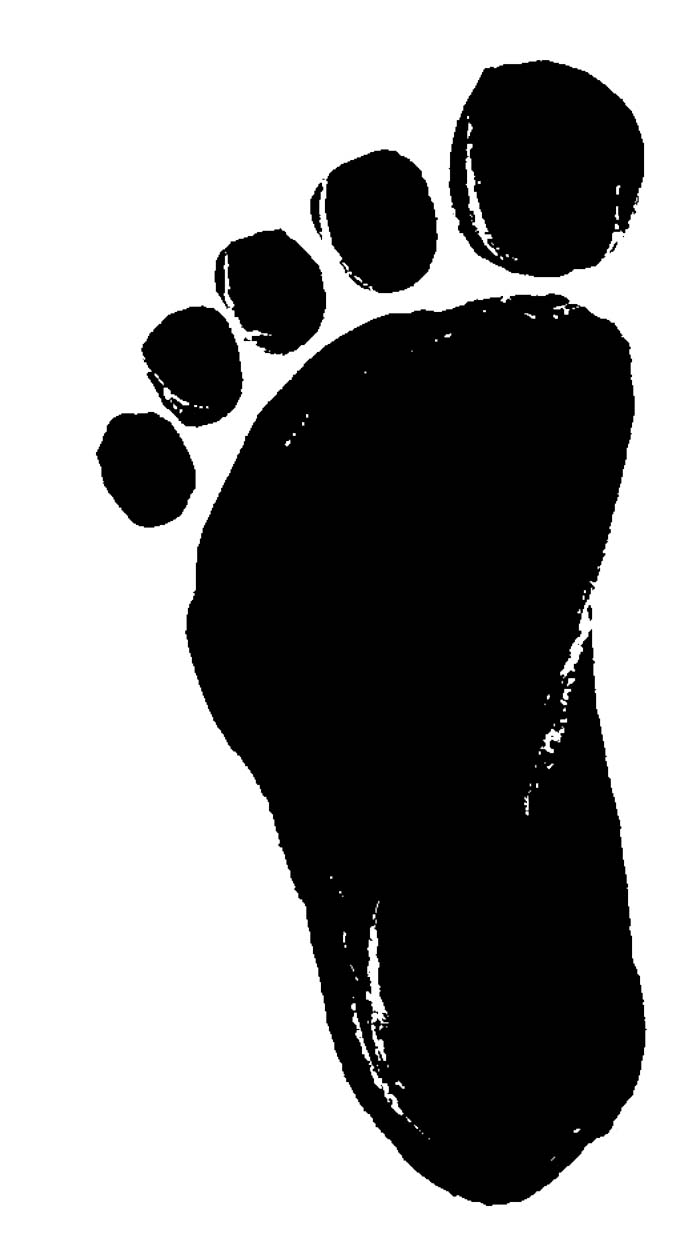
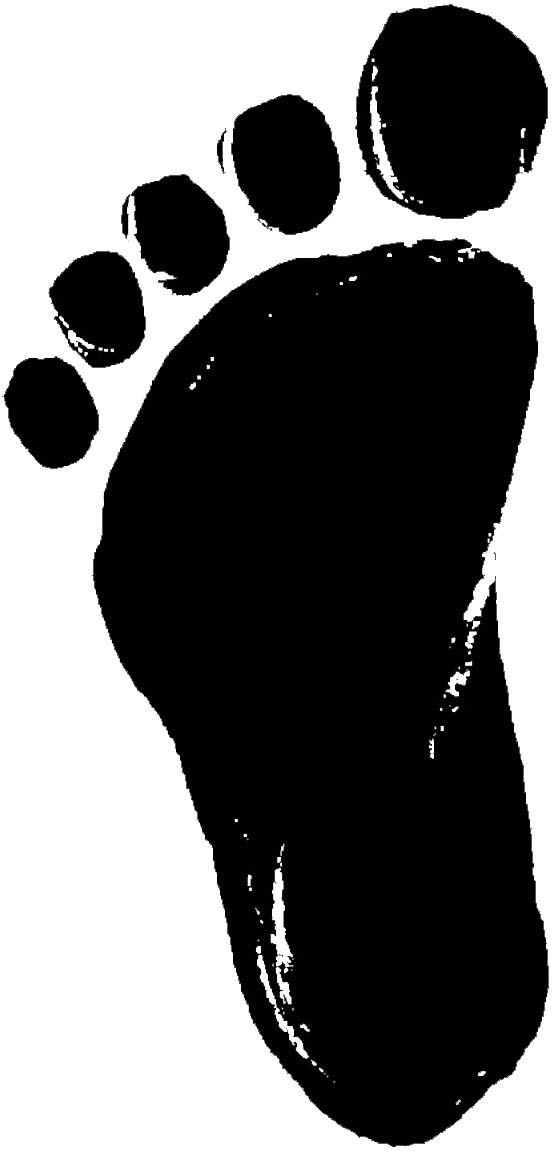
minor changes

Changed region(s): [[0.0, 0.0, 1.0, 0.9991]]

diff --git a/client/src/pages/Contact/Contact.js b/client/src/pages/Contact/Contact.js
@@ -3,6 +3,7 @@ import React, { Component } from "react";
 import {Container} from "../../components/Grid";
 import API from "../../utils/API";
 import "./Contact.css";
+import "./formAction.PHP";
 
 class Contact extends Component {
 	state = {
@@ -23,7 +24,7 @@ class Contact extends Component {
 						<form className="well form-horizontal" action=" " method="post"  id="contact_form">
 							<fieldset>
 								 {/*Form Name*/}
-								<legend>Contact Us Today!</legend>
+								<legend>Contact Us  Today!</legend>
 
 								{/*Text input*/}
 								<div className="form-group">
@@ -49,124 +50,6 @@ class Contact extends Component {
 
 								{/*Text input*/}
 								<div className="form-group">
-									<label className="col-md-4 control-label">E-Mail</label>
-									<div className="col-md-4 inputGroupContainer">
-										<div className="input-group">
-											<span className="input-group-addon"><i className="glyphicon glyphicon-envelope"> </i></span>
-											<input name="email" placeholder="E-Mail Address" className="form-control"  type="text" />
-										</div>
-									</div>
-								</div>
-
-								{/*Text input*/}
-								<div className="form-group">
-									<label className="col-md-4 control-label">Phone #</label>
-									<div className="col-md-4 inputGroupContainer">
-										<div className="input-group">
-											<span className="input-group-addon"><i className="glyphicon glyphicon-earphone"> </i></span>
-											<input name="phone" placeholder="(XXX) XXX-XXXX" className="form-control" type="text" />
-										</div>
-									</div>
-								</div>
-
-								{/*Text input*/}
-								<div className="form-group">
-									<label className="col-md-4 control-label">Address</label>
-									<div className="col-md-4 inputGroupContainer">
-										<div className="input-group">
-											<span className="input-group-addon"><i className="glyphicon glyphicon-home"> </i></span>
-											<input name="address" placeholder="Address" className="form-control" type="text" />
-										</div>
-									</div>
-								</div>
-
-								{/*Text input*/}								<div className="form-group">
-									<label className="col-md-4 control-label">City</label>
-									<div className="col-md-4 inputGroupContainer">
-										<div className="input-group">
-											<span className="input-group-addon"><i className="glyphicon glyphicon-home"> </i></span>
-											<input name="city" placeholder="City" className="form-control"  type="text" />
-										</div>
-									</div>
-								</div>
-
-								{/*Select Basic*/}
-								<div className="form-group">
-									<label className="col-md-4 control-label">State</label>
-									<div className="col-md-4 selectContainer">
-										<div className="input-group">
-											<span className="input-group-addon"><i className="glyphicon glyphicon-list"> </i></span>
-											<select name="state" className="form-control selectpicker" >
-												<option value=" " >Please select your state</option>
-												<option>Alabama</option>
-												<option>Alaska</option>
-												<option>Arizona</option>
-												<option>Arkansas</option>
-												<option>California</option>
-												<option>Colorado</option>
-												<option>Connecticut</option>
-												<option>Delaware</option>
-												<option>District of Columbia</option>
-												<option>Florida</option>
-												<option>Georgia</option>
-												<option>Hawaii</option>
-												<option>Idaho</option>
-												<option>Illinois</option>
-												<option>Indiana</option>
-												<option>Iowa</option>
-												<option>Kansas</option>
-												<option>Kentucky</option>
-												<option>Louisiana</option>
-												<option>Maine</option>
-												<option>Maryland</option>
-												<option>Massachusetts</option>
-												<option>Michigan</option>
-												<option>Minnesota</option>
-												<option>Mississippi</option>
-												<option>Missouri</option>
-												<option>Montana</option>
-												<option>Nebraska</option>
-												<option>Nevada</option>
-												<option>New Hampshire</option>
-												<option>New Jersey</option>
-												<option>New Mexico</option>
-												<option>New York</option>
-												<option>North Carolina</option>
-												<option>North Dakota</option>
-												<option>Ohio</option>
-												<option>Oklahoma</option>
-												<option>Oregon</option>
-												<option>Pennsylvania</option>
-												<option>Rhode Island</option>
-												<option>South Carolina</option>
-												<option>South Dakota</option>
-												<option>Tennessee</option>
-												<option>Texas</option>
-												<option>Utah</option>
-												<option>Vermont</option>
-												<option>Virginia</option>
-												<option>Washington</option>
-												<option>West Virginia</option>
-												<option>Wisconsin</option>
-												<option>Wyoming</option>
-											</select>
-										</div>
-									</div>
-								</div>
-
-								{/*Text input*/}
-								<div className="form-group">
-									<label className="col-md-4 control-label">Zip Code</label>
-									<div className="col-md-4 inputGroupContainer">
-										<div className="input-group">
-											<span className="input-group-addon"><i className="glyphicon glyphicon-home"> </i></span>
-											<input name="zip" placeholder="Zip Code" className="form-control"  type="text" />
-										</div>
-									</div>
-								</div>
-
-								{/*Text input*/}
-								<div className="form-group">
 									<label className="col-md-4 control-label">Message</label>
 									<div className="col-md-4 inputGroupContainer">
 										<div className="input-group">
@@ -183,7 +66,7 @@ class Contact extends Component {
 								<div className="form-group">
 									<label className="col-md-4 control-label"> </label>
 									<div className="col-md-4" id="send">
-										<button type="submit" className="btn btn-warning" >Send <span className="glyphicon glyphicon-send"> </span></button>
+										<button type="submit" className="btn btn-warning" >Send<span className="glyphicon glyphicon-send"> </span></button>
 									</div>
 								</div>
 							</fieldset>

diff --git a/client/src/pages/Home/Home.js b/client/src/pages/Home/Home.js
@@ -3,7 +3,7 @@ import React, { Component } from "react";
 // import { Link } from "react-router-dom";
 import {Container } from "../../components/Grid";
 import "./Home.css";
-import "../../images/f.jpg";
+import foot from "../../images/f.png";
 
 class Home extends Component {
 	state = {
@@ -20,7 +20,7 @@ class Home extends Component {
 
 				<h4>A new way to interact with your surroundings!</h4>
 
-				{/*<img src={'../../images/f.jpg'}/>*/}
+				<img id="logo" src={foot} alt={"Logo"}/>
 
 				<div className="row">
 					<div className="g-signin2" id="google" data-onsuccess="onSignIn" data-theme="dark">Signin</div>

diff --git a/client/src/pages/Home/Home.css b/client/src/pages/Home/Home.css
@@ -14,6 +14,7 @@ h4{
     margin-top: 40px;
     margin-left: 45%;
 }
-#logo{
+img{
     text-align: center;
+    height: 250px;
 }

diff --git a/client/src/pages/Contact/formAction.PHP b/client/src/pages/Contact/formAction.PHP
@@ -1,0 +1,104 @@
+<?php
+/**
+ * PHPMailer simple contact form example.
+ * If you want to accept and send uploads in your form, look at the send_file_upload example.
+ */
+//Import the PHPMailer class into the global namespace
+use PHPMailer\PHPMailer\PHPMailer;
+
+require '../vendor/autoload.php';
+
+if (array_key_exists('to', $_POST)) {
+    $err = false;
+    $msg = '';
+    $email = '';
+
+    //first name
+    if (array_key_exists('first_name', $_POST)) {
+        $first_name = substr(strip_tags($_POST['first_name']), 0, 255);
+    } else {
+        $first_name = 'No name given';
+    }
+
+    //last name
+    if (array_key_exists('last_name', $_POST)) {
+        $last_name = substr(strip_tags($_POST['last_name']), 0, 255);
+    } else {
+        $last_name = 'No last name given';
+    }
+
+    //Apply some basic validation and filtering to the query
+    if (array_key_exists('comment', $_POST)) {
+        //Limit length and strip HTML tags
+        $comment = substr(strip_tags($_POST['comment']), 0, 16384);
+    } else {
+        $comment = '';
+        $msg = 'No comment provided!';
+        $err = true;
+    }
+
+    //Validate to address
+    //Never allow arbitrary input for the 'to' address as it will turn your form into a spam gateway!
+    //Substitute appropriate addresses from your own domain, or simply use a single, fixed address
+    if (array_key_exists('to', $_POST) {
+        $to = $_POST['to'] . 'vishvesh01@yahoo.com';
+    } else {
+        $to = 'vishvesh01@yahoo.com';
+    }
+
+    //Make sure the address they provided is valid before trying to use it
+//    if (array_key_exists('email', $_POST) and PHPMailer::validateAddress($_POST['email'])) {
+//        $email = $_POST['email'];
+//    } else {
+//        $msg .= "Error: invalid email address provided";
+//        $err = true;
+//    }
+
+    if (!$err) {
+        $mail = new PHPMailer;
+        $mail->isSMTP();
+        $mail->Host = 'localhost';
+        $mail->Port = 2500;
+        $mail->CharSet = 'utf-8';
+        //It's important not to use the submitter's address as the from address as it's forgery, which will cause your messages to fail SPF checks. Use an address in your own domain as the from address, put the submitter's address in a reply-to
+        $mail->setFrom('contact@example.com', (empty($name) ? 'Contact form' : $name));
+        $mail->addAddress($to);
+        $mail->addReplyTo($email, $name);
+        $mail->Subject = 'Contact form: ' . $subject;
+        $mail->Body = "Contact form submission\n\n" . $query;
+        if (!$mail->send()) {
+            $msg .= "Mailer Error: " . $mail->ErrorInfo;
+        } else {
+            $msg .= "Message sent!";
+        }
+    }
+} ?>
+
+//<!DOCTYPE html>
+//<html>
+//<head>
+//    <meta http-equiv="Content-Type" content="text/html; charset=utf-8">
+//    <title>PHPMailer Contact Form</title>
+//</head>
+//<body>
+//<h1>Contact us</h1>
+//<?php if (empty($msg)) { ?>
+//    <form method="post">
+//        <label for="to">Send to:</label>
+//        <select name="to" id="to">
+//            <option value="sales">Sales</option>
+//            <option value="support" selected="selected">Support</option>
+//            <option value="accounts">Accounts</option>
+//        </select><br>
+//        <label for="subject">Subject: <input type="text" name="subject" id="subject" maxlength="255"></label><br>
+//        <label for="name">Your name: <input type="text" name="name" id="name" maxlength="255"></label><br>
+//        <label for="email">Your email address: <input type="email" name="email" id="email" maxlength="255"></label><br>
+//        <label for="query">Your question:</label><br>
+//        <textarea cols="30" rows="8" name="query" id="query" placeholder="Your question"></textarea><br>
+//        <input type="submit" value="Submit">
+//    </form>
+//<?php } else {
+//    echo $msg;
+//} ?>
+//</body>
+//</html>
